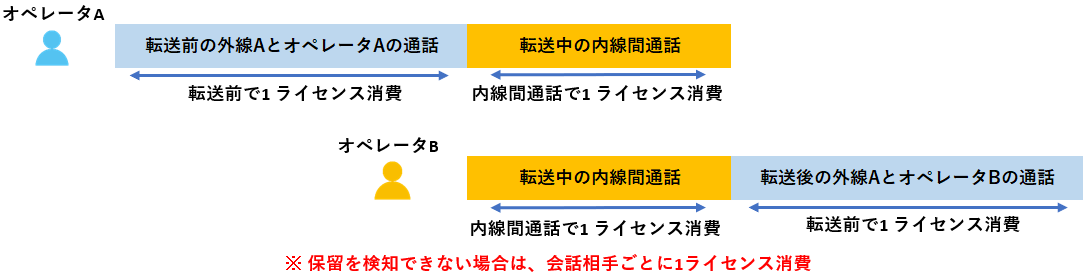
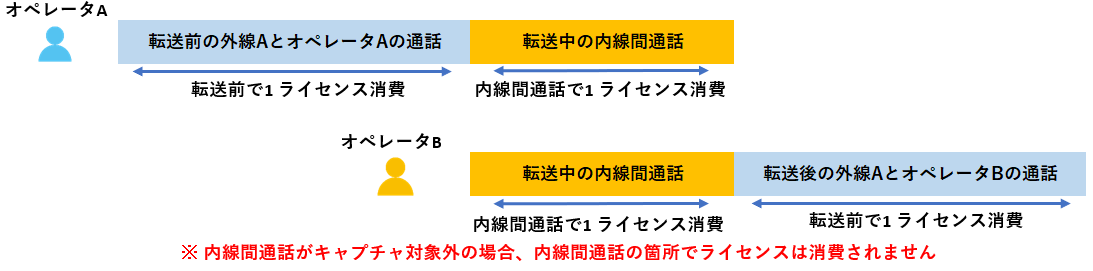
07/17 ライセンス状況　修正中(80%)

diff --git a/詳解 Communication Suite 機能編.md b/詳解 Communication Suite 機能編.md
@@ -3428,7 +3428,7 @@ AmiVoice© のテキスト化処理の仕様で、半角文字の出力ができ
 	--:|-----------------|---------------------------|
 	1 | AmiVoice Communication Suite Core |なし（管理上のライセンスとなります。）  |  
 	2 | AmiVoice OperatorAgent サーバ版 |OperatorAgent の初回ログイン処理を実施したタイミングでPC 毎に1つ使用<br>仮想環境の場合はライセンス使用を同時ログイン処理毎に変更可|  
-	3 | AmiVoice RealTimeRecorder |「内線番号管理」に内線番号を追加する毎に1つ使用。内線番号の登録数分使用。  |  
+	3 | AmiVoice RealTimeRecorder |「内線番号管理」に内線番号を追加する毎に1つ使用<br>内線番号の登録数分使用 |  
 	4 | AmiVoice StreamingRecognizer |ノード管理 - ノード詳細の StreamingRecognizer タブ 「リアルタイム認識 - 最大同時処理数」の設定値を保存したタイミングで設定値分のライセンスを使用  |  
 	5 | AmiVoice OperatorAgent コンバージャ版 |OperatorAgent の初回ログイン処理を実施したタイミングで PC 毎に1つ使用 |  
 	6 | AmiVoice MediaScriber  |ノード管理 - ノード詳細の StreamingRecognizer タブ 「バッチ認識 - 最大同時処理数」の設定値を保存したタイミングで設定値分のライセンスを使用  |  
@@ -3440,13 +3440,13 @@ AmiVoice© のテキスト化処理の仕様で、半角文字の出力ができ
 	ライセンス不足を解消するには、No.3,No.4,No.6 は設定値を減らす、No.2,No.5は登録済みの PC を減らす対処が必要です。  
 <br>
 - CommunicationSuite ライセンスの登録  
-	ライセンスの登録時にはライセンスファイルが必要です。TaskRunner の`LicenseRegister` コマンドを実行してチャレンジコードを発行します。  
+	ライセンスの登録にはライセンスファイルが必要です。  
+	TaskRunner の`LicenseRegister` コマンドを実行してチャレンジコードを発行します。  
 	発行されたチャレンジコードに対応するワンタイムパスワードを専用 IVR より取得してアクティベーションします。  
 	- ワンタイムパスワード専用 IVR  
 	連絡先：050-3160-0203  
 	パートナーコード：xxxx （パートナー様ごとに用意されている番号をご利用ください）  
-	![](images/Tips.jpg){width=50px}　下記ライセンスはライセンスファイルでアクティベーションされず、ライセンス状況には表示されませんが  
-	機能を利用する場合には購入が必要です。  
+	![](images/Tips.jpg){width=50px}　下記ライセンスはライセンスファイルでアクティベーションされるものではありません。CommnicationSuite ライセンスとしてシステム上に表示されませんが、機能を利用する場合には購入が必要です。  
 	- AmiVoice RealTimeRecorder（冗長）  
 	- AmiVoice Web Client API （ランタイム）  
 	- AmiVoice Json API（ランタイム）  
@@ -3466,16 +3466,16 @@ AmiVoice© のテキスト化処理の仕様で、半角文字の出力ができ
 	バッチ版・・・  MediaScriber ライセンスの数  
 <br>
   - 感情解析可能な通話数  
-	購入ライセンス数 × 3000（バッチ版は以下参照） が感情解析可能な通話数としてシステム反映されます。  
+	購入ライセンス数 × 3000 が感情解析可能な通話数としてシステム反映されます。（バッチ版は例外あり。後述参照）   
 	リアルタイム版・・・購入したライセンス数 × 3000 回  
 	バッチ版・・・購入した **最初の1ライセンスのみ 30,000 回** 。以降1ライセンス追加ごとに 3,000 ずつ追加
 。  
-	![](images/Check.png){width=50px}　感情解析ライセンスは月単位の利用形態となり、これは月ごとの感情解析利用回数です。ライセンスの利用状況は （[@fig:kanjo]） の今月の感情解析通話数より確認できます。消費した感情解析通話数は毎月1日の午前9時にリセットされて「0」に戻ります。利用可能なライセンス数を超過した場合には翌月のライセンスリセットまで、それ以降の通話の感情解析が実行されません。  
+	![](images/Check.png){width=50px}　感情解析ライセンスは月単位の利用形態となり、これは月ごとの感情解析利用回数です。ライセンスの利用状況は （[@fig:kanjo]） の`今月の感情解析通話数`より確認できます。消費した感情解析通話数は毎月1日の午前9時にリセットされて「0」に戻ります。利用可能なライセンス数を超過した場合には翌月のライセンスリセットまで、それ以降の通話の感情解析が実行されません。  
 <br>
-  - 感情解析通話数の消費タイミング  
-	基本的には **StreamingRecgnizer の認識処理実行時** に消費されます。(例外は後述 Tip 参照)
-
-	録音構成（通話プロバイダ）や通話パターンによって消費数が変わります。  
+  - 今月の感情解析通話数の消費タイミング  
+	ライセンスは **StreamingRecgnizer の認識処理実行時** に消費されます。(例外は後述 Tip 参照)  
+	消費する数は、録音構成（通話プロバイダ、キャプチャポイント）や通話パターンの組み合わせによって変わりますが  
+	基本的なライセンス消費の考え方としては会話相手ごとにライセンスが消費されます。  
 <br>
 	1. 保留操作時の通話パターン  
    		- 保留イベントを取得できるパターン  
@@ -3488,7 +3488,7 @@ AmiVoice© のテキスト化処理の仕様で、半角文字の出力ができ
 ![](images/3-7-kanjoz3.png){#fig:kanjoz3 width=650px}  
 
 	1. 転送時の通話パターン  
-	転送時の通話パターンも保留イベントを取得できるかで消費数が変わります。  
+	転送時の通話パターンも保留イベントの取得可否で消費数が変わります。  
 
    		- 保留イベントを取得できるパターン  
 	![](images/3-7-kanjoz4.png){#fig:kanjoz4 width=650px}  
